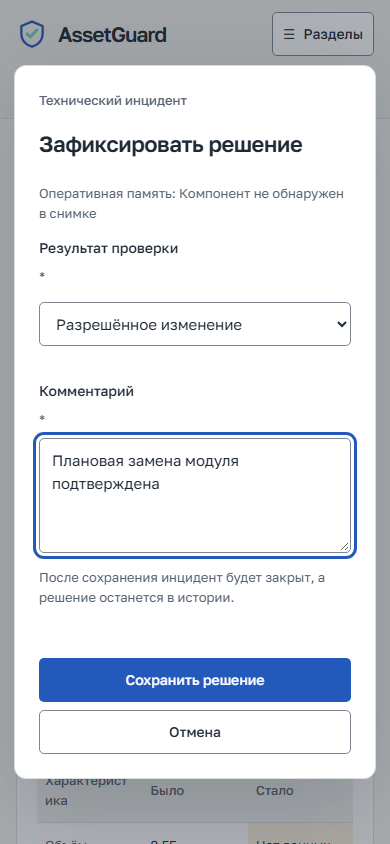
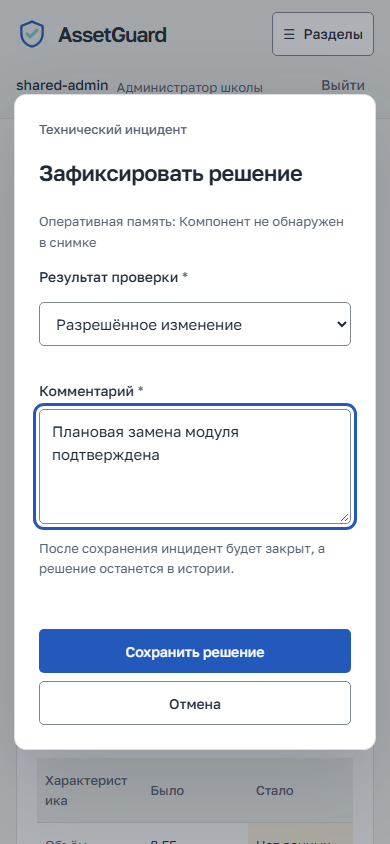
Show serial numbers from both supported inventory shapes in comparisons

Changed region(s): [[0.0308, 0.6161, 0.9846, 0.9242], [0.0308, 0.0616, 0.9846, 0.3389], [0.0615, 0.4621, 0.9231, 0.5853]]

diff --git a/frontend/app.js b/frontend/app.js
@@ -1193,8 +1193,8 @@ function componentSummary(type, raw) {
 }
 
 function comparisonFields(type) {
-  const common = [['Модель',['model','name']],['Описание',['description','caption']],['Производитель',['manufacturer']],['Серийный номер',['serial']]];
-  if (type === 'RAM') return [['Объём',['capacity'],value => Number(value) > 0 ? bytes(memoryCapacityBytes(value)) : 'Не указан'],['Тип памяти',['type','description','caption']],['Частота',['speed'],value => Number(value) > 0 ? `${value} МГц` : 'Не указана'],['Слот',['numslots','slot']],['Производитель',['manufacturer']],['Серийный номер',['serial']],['Модель',['model']]];
+  const common = [['Модель',['model','name']],['Описание',['description','caption']],['Производитель',['manufacturer']],['Серийный номер',['serial','serialnumber']]];
+  if (type === 'RAM') return [['Объём',['capacity'],value => Number(value) > 0 ? bytes(memoryCapacityBytes(value)) : 'Не указан'],['Тип памяти',['type','description','caption']],['Частота',['speed'],value => Number(value) > 0 ? `${value} МГц` : 'Не указана'],['Слот',['numslots','slot']],['Производитель',['manufacturer']],['Серийный номер',['serial','serialnumber']],['Модель',['model']]];
   if (type === 'STORAGE') return [...common,['Объём',['disksize'],value => Number(value) > 0 ? storageSize(value) : 'Не указан'],['Интерфейс',['interface']]];
   if (type === 'CPU') return [...common,['Ядра',['core']],['Потоки',['thread']],['Частота',['speed'],value => Number(value) > 0 ? `${value} МГц` : 'Не указана']];
   if (type === 'ENDPOINT') return [['Имя компьютера',['hostname','value']]];

diff --git a/backend/tests/e2e/test_redesign.py b/backend/tests/e2e/test_redesign.py
@@ -183,6 +183,12 @@ def test_complete_workspace_reflow_fonts_onboarding_and_comparison(live_server, 
         assert page.evaluate("incidentLabel({component_type:'RAM',evidence:{previous:{capacity:8192},current:{capacity:0}}})") == 'Изменились сведения о модуле памяти'
         assert page.evaluate("incidentLabel({component_type:'RAM',evidence:{previous:{capacity:8192},current:{capacity:8589934592}}})") == 'Изменились сведения о модуле памяти'
         assert page.evaluate("incidentLabel({component_type:'RAM',evidence:{previous:{capacity:8192},current:{capacity:16384}}})") == 'Изменился объём оперативной памяти'
+        serials = page.evaluate("""() => {
+            const template=document.createElement('template');
+            template.innerHTML=renderFieldComparison('RAM',{previous:{serialnumber:'OLD-MODULE'},current:{serial:'NEW-MODULE'}});
+            return [...template.content.querySelector('tbody tr').cells].map(cell=>cell.textContent);
+        }""")
+        assert serials == ['Серийный номер','OLD-MODULE','NEW-MODULE']
         missing = page.evaluate("renderFieldComparison('RAM',{previous:{capacity:8192,serial:'OLD'},current:null})")
         assert 'Нет данных' in missing and 'Компонент не представлен' in missing
         assert 'Отсутствует' not in missing
